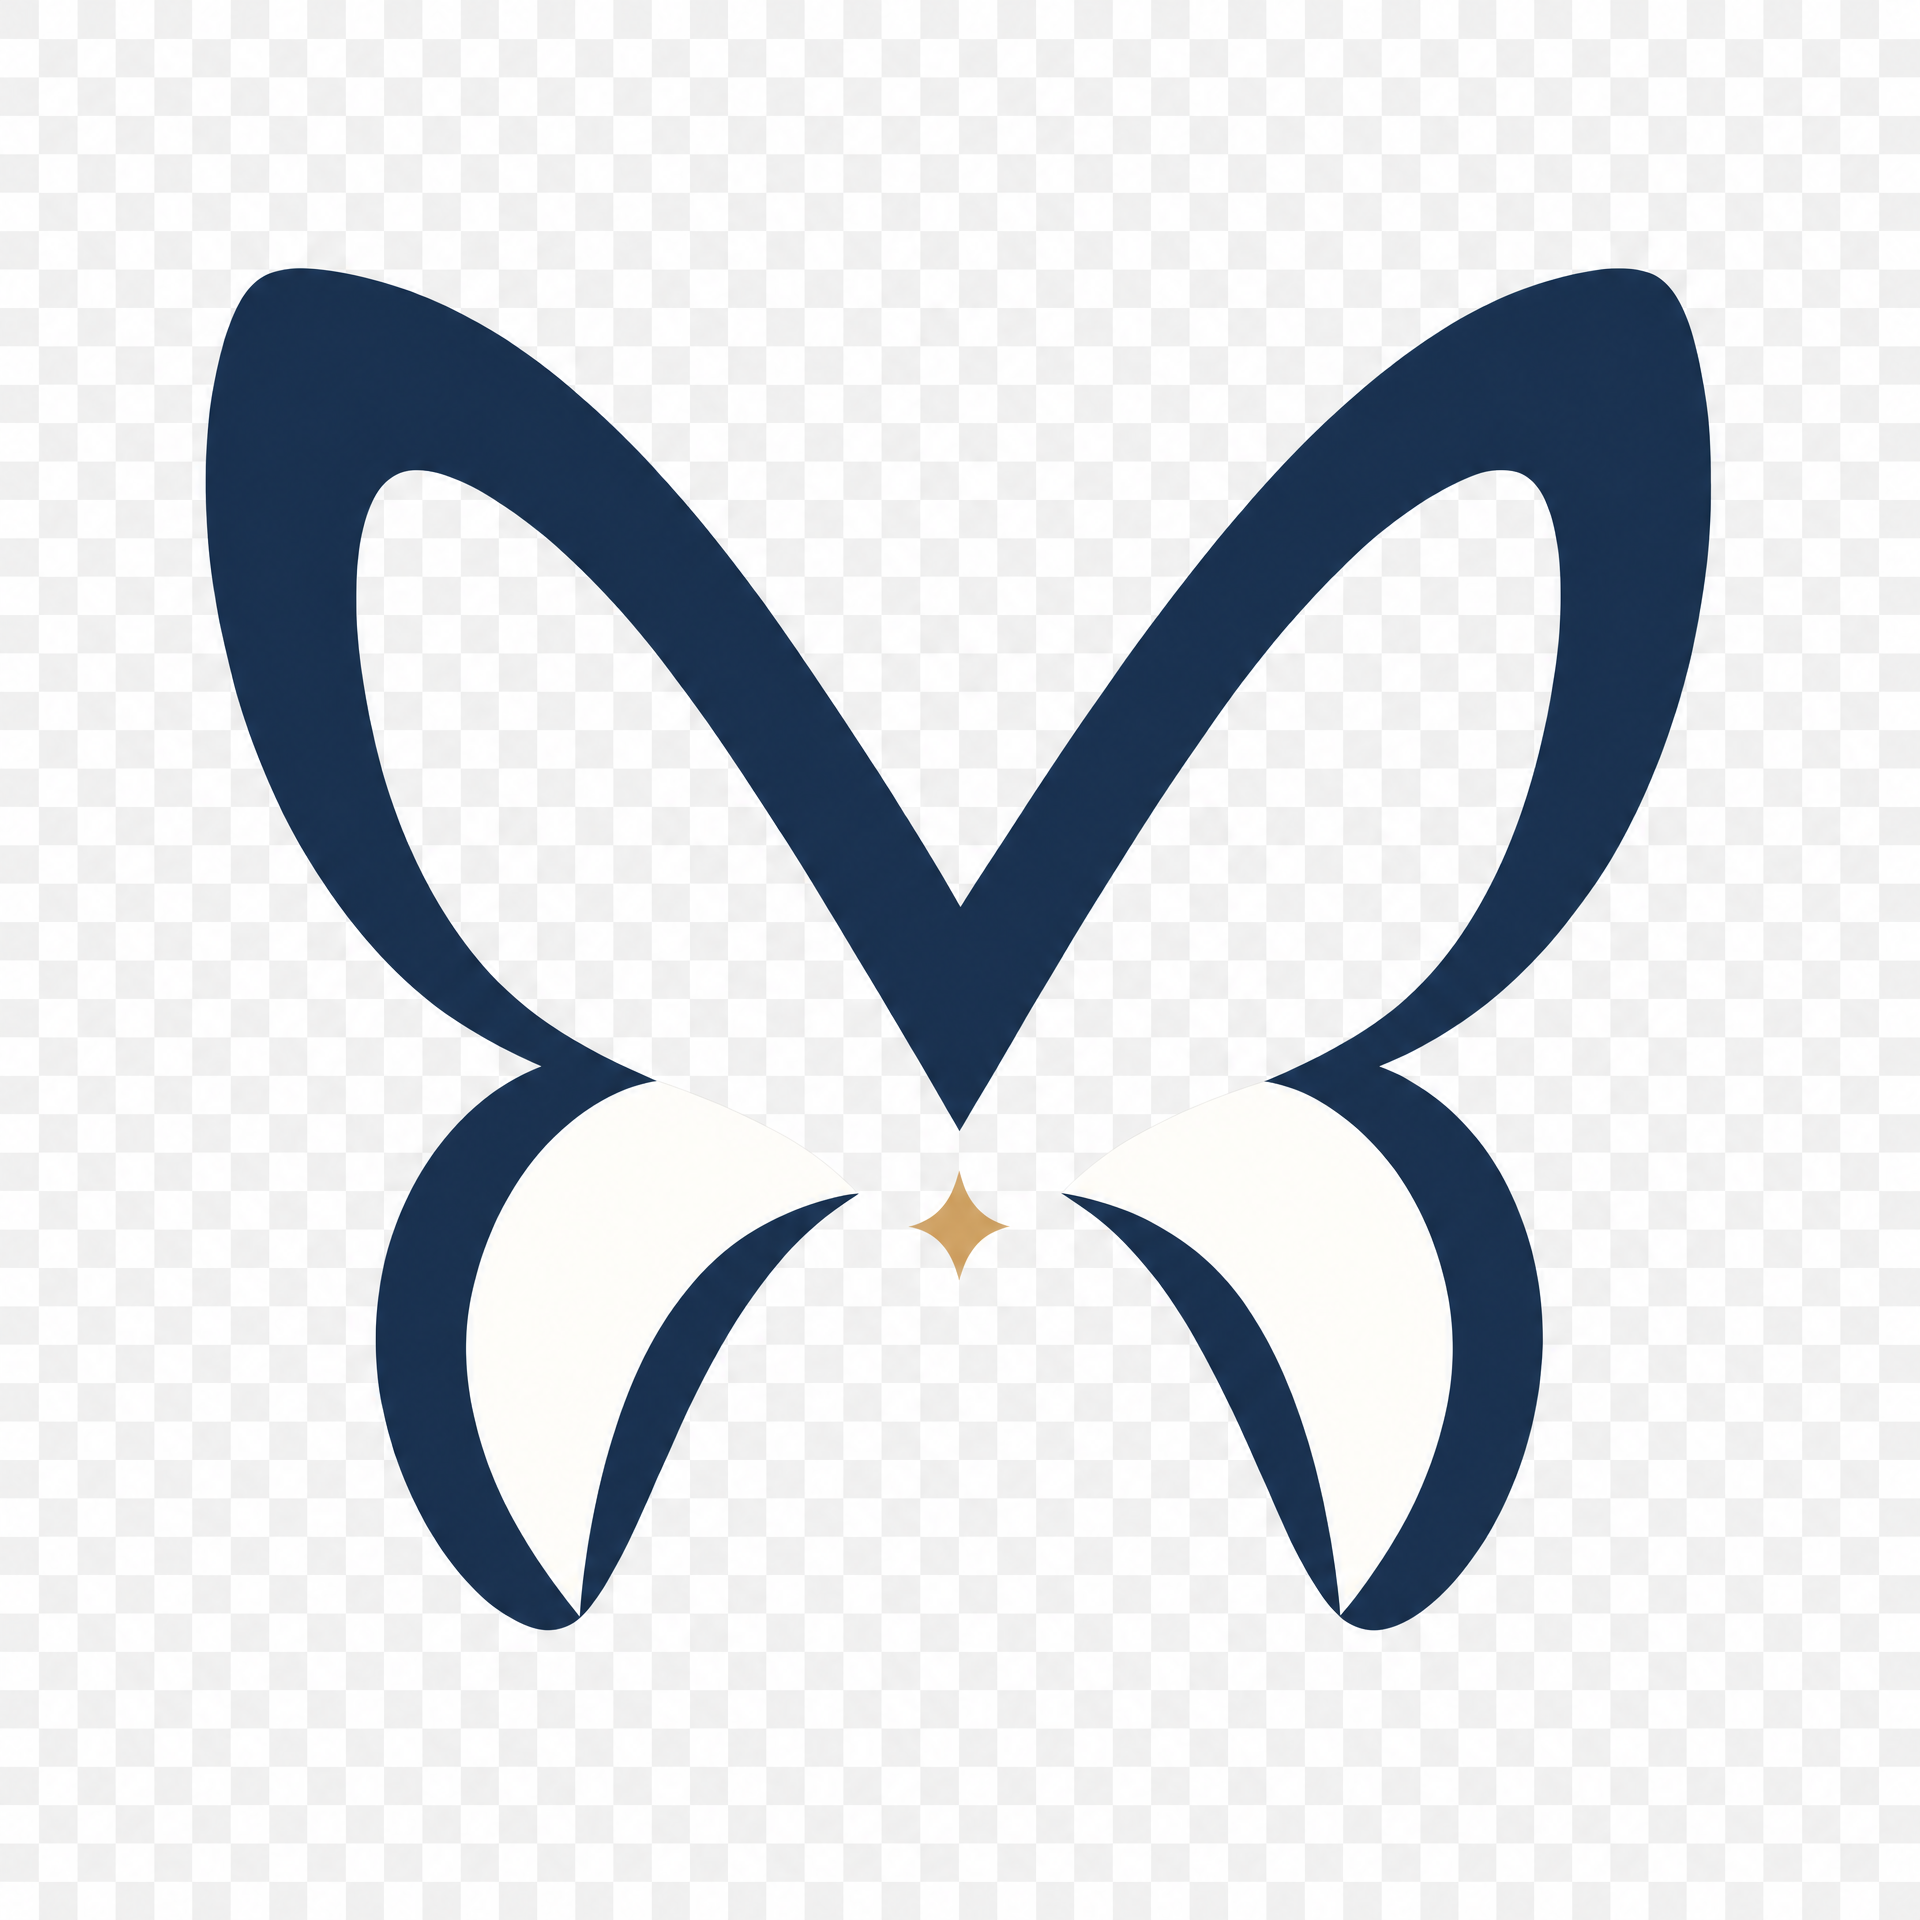
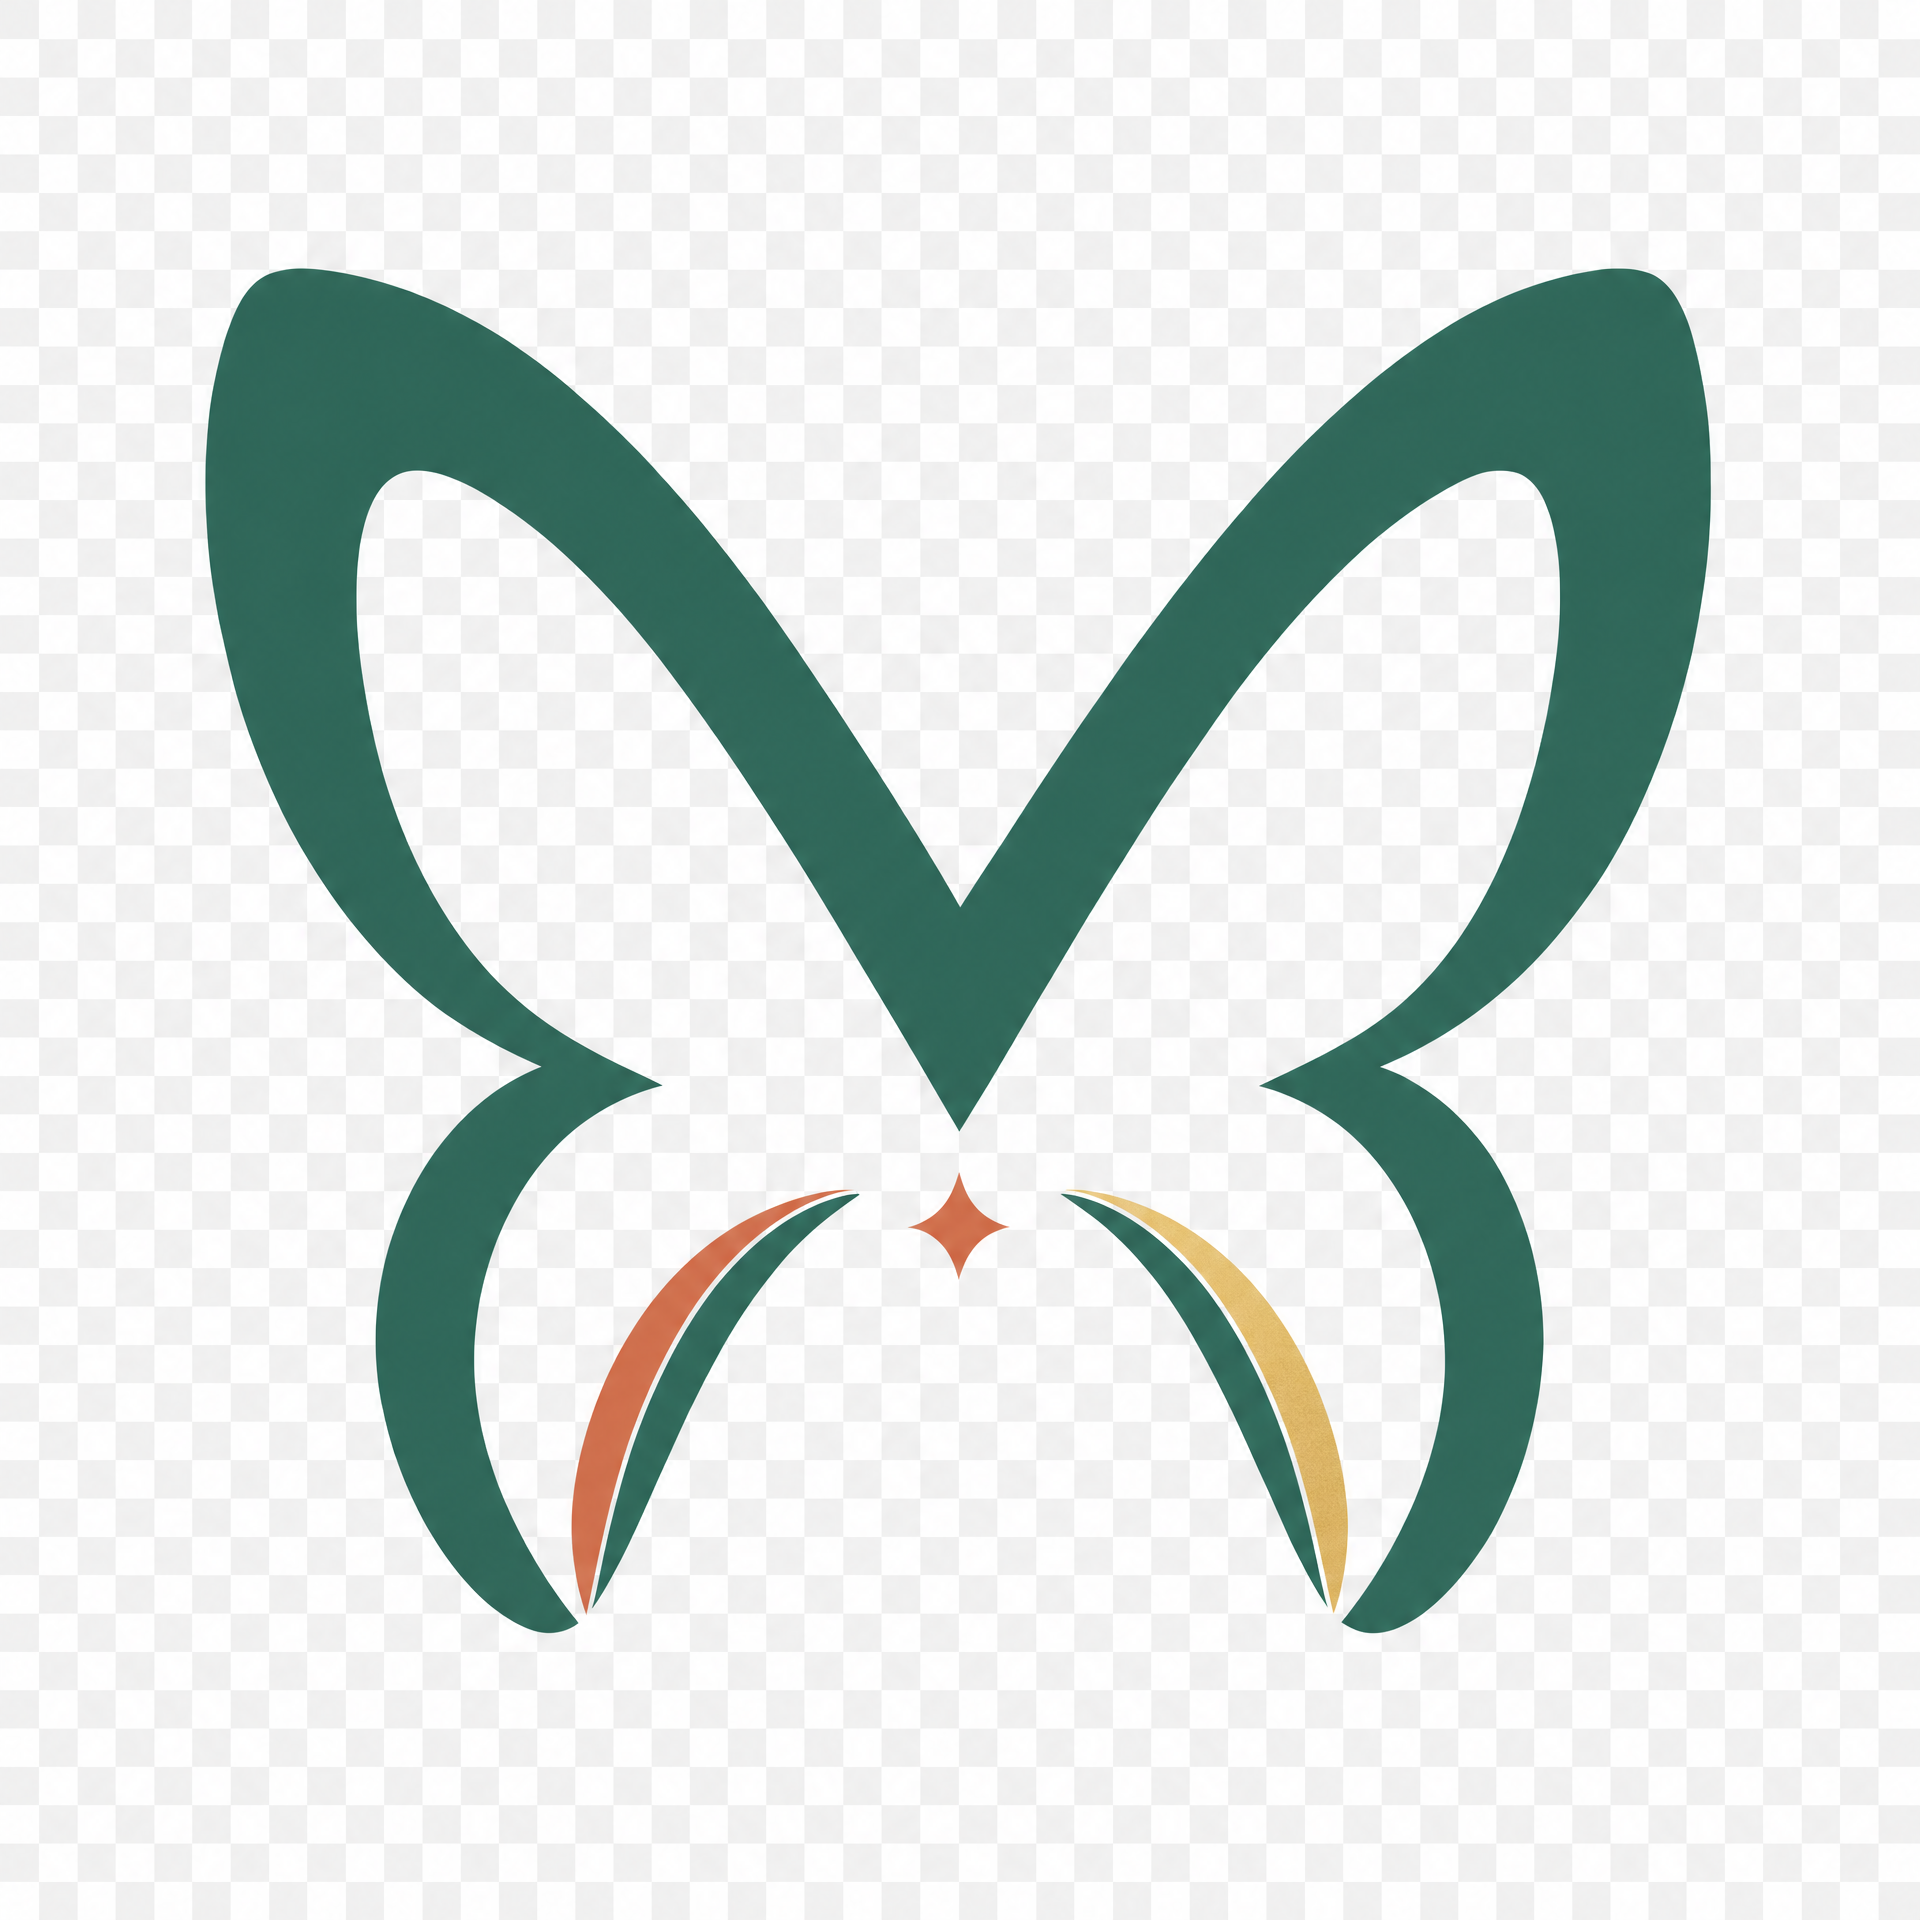
feat(theme): preview eucalyptus champagne and apricot palette

Changed region(s): [[0.0938, 0.125, 0.9062, 0.875], [0.4688, 0.625, 0.5312, 0.6562]]

diff --git a/tailwind.config.ts b/tailwind.config.ts
@@ -12,26 +12,26 @@ const config: Config = {
       colors: {
         // Carnet de Confiance — couleur-action / primaire (CTA, liens importants)
         violet: {
-          DEFAULT: "#162B48", // Bleu nuit saphir : primaire haut de gamme
-          dark: "#0E1C31",
-          soft: "#E7EEF7",
+          DEFAULT: "#2E6953", // Vert eucalyptus : signature naturelle et mature
+          dark: "#194638",
+          soft: "#DDEFE5",
         },
         festif: {
-          DEFAULT: "#D4A373", // Or solaire : accent chaud et festif
-          soft: "#F5E8D2",
+          DEFAULT: "#D9A566", // Champagne poudré : lumière élégante
+          soft: "#F5E8D0",
         },
         emerald: {
-          DEFAULT: "#2F8067", // Succès : vert discret et lisible
-          soft: "#E2F0EA",
+          DEFAULT: "#438768", // Succès : vert positif et lisible
+          soft: "#E4F1EA",
         },
         navy: {
-          DEFAULT: "#243D63", // Saphir clair : accent premium
-          soft: "#E1E8F2",
+          DEFAULT: "#C96A45", // Abricot fête : accent humain et festif
+          soft: "#FBE3D6",
         },
-        cream: "#FAF9F5", // Lin blanc lumineux
-        ink: "#0F1D2E", // Bleu encre profond
-        plum: "#1C2E45", // Texte principal bleu ardoise
-        slate: "#586A7F", // Texte secondaire bleu-grisé
+        cream: "#FAF7F1", // Crème chaude
+        ink: "#19352B", // Encre eucalyptus profonde
+        plum: "#233F35", // Texte principal naturel et contrasté
+        slate: "#657B70", // Texte secondaire vert-grisé
 
       },
       // Dégradés de marque réutilisables → classes `bg-gradient-*`.
@@ -40,11 +40,11 @@ const config: Config = {
       // un aplat dominant.
       backgroundImage: {
         // Boutons CTA du quotidien, hero discret.
-        "gradient-primary": "linear-gradient(135deg, #162B48 0%, #0E1C31 100%)",
+        "gradient-primary": "linear-gradient(135deg, #2E6953 0%, #194638 100%)",
         // Sections premium, mise en avant prestataire, hero principal.
-        "gradient-premium": "linear-gradient(135deg, #243D63 0%, #0F1D2E 100%)",
+        "gradient-premium": "linear-gradient(135deg, #2E6953 0%, #C96A45 100%)",
         // Fonds de section doux, transitions.
-        "gradient-soft": "linear-gradient(135deg, #F5E8D2 0%, #FAF9F5 100%)",
+        "gradient-soft": "linear-gradient(135deg, #F5E8D0 0%, #FAF7F1 100%)",
       },
       fontFamily: {
         // Titres éditoriaux (l'émotion)

diff --git a/app/animations.css b/app/animations.css
@@ -53,7 +53,7 @@
   align-items: center;
   justify-content: center;
   isolation: isolate;
-  background: #162B48;
+  background: #2E6953;
 }
 .ev-aurora::before,
 .ev-aurora::after {
@@ -70,11 +70,11 @@
 }
 .ev-aurora::before {
   left: -12%;
-  background: rgba(212, 163, 115, 0.60);
+  background: rgba(217, 165, 102, 0.62);
 }
 .ev-aurora::after {
   right: -14%;
-  background: rgba(36, 61, 99, 0.54);
+  background: rgba(201, 106, 69, 0.50);
   animation-delay: -4.5s;
 }
 .ev-aurora-content {
@@ -88,15 +88,15 @@
    Un CTA n’a pas besoin d’une respiration continue pour être visible. Le
    retour est réservé au survol et à l’appui, plus rapide et plus lisible. */
 .ev-cta {
-  background: #162B48;
+  background: #2E6953;
   transition: transform 0.16s cubic-bezier(0.23, 1, 0.32, 1),
     box-shadow 0.16s cubic-bezier(0.23, 1, 0.32, 1),
     background-color 0.16s cubic-bezier(0.23, 1, 0.32, 1);
 }
 .ev-cta:hover {
-  background: #0E1C31;
+  background: #194638;
   transform: translateY(-2px);
-  box-shadow: 0 8px 20px rgba(14, 28, 49, 0.28);
+  box-shadow: 0 8px 20px rgba(25, 70, 56, 0.24);
 }
 .ev-cta:active { transform: scale(0.97); }
 
@@ -117,11 +117,11 @@
   border-radius: inherit;
   background: linear-gradient(
     120deg,
-    #D4A373,
-    #F5E8D2,
-    #D4A373,
-    #E9C38A,
-    #D4A373
+    #D9A566,
+    #F5E8D0,
+    #C96A45,
+    #E7B47D,
+    #D9A566
   );
   background-size: 300% 300%;
   animation: ev-cta-pulse-ring 6s ease-in-out infinite;
@@ -230,7 +230,7 @@
 
   /* CTA et liseré statiques ; aucun mouvement imposé. */
   .ev-cta {
-    background: #162B48;
+    background: #2E6953;
   }
   .ev-cta:hover {
     transform: none;

diff --git a/app/globals.css b/app/globals.css
@@ -46,8 +46,8 @@ html {
   box-sizing: border-box;
 }
 body {
-  background-color: #faf9f5;
-  color: #1c2e45;
+  background-color: #faf7f1;
+  color: #233f35;
   -webkit-font-smoothing: antialiased;
   text-rendering: optimizeLegibility;
   /* Aucun défilement latéral parasite : un élément trop large ne décale plus
@@ -64,7 +64,7 @@ iframe {
   max-width: 100%;
 }
 :focus-visible {
-  outline: 2px solid #d4a373;
+  outline: 2px solid #c96a45;
   outline-offset: 3px;
   border-radius: 4px;
 }
